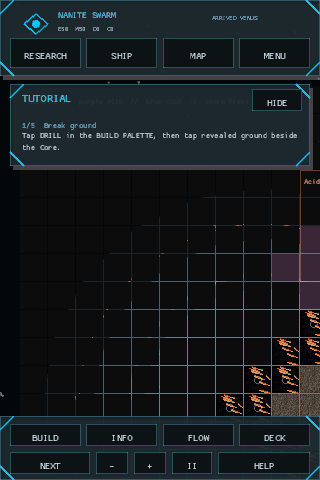
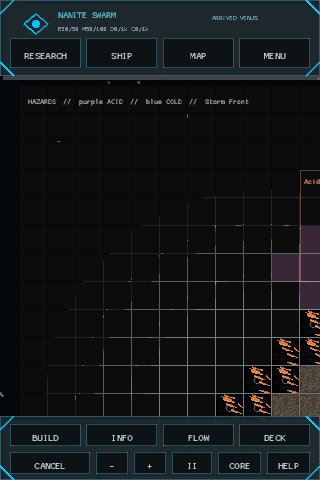
The new worlds refuse the opening lesson's impossible order (post-launch tutorial scope, GDD 4)
A newly colonized planet was created with the full opening tutorial active. That worked on Mars, but Venus and Saturn ban Wind Turbines, leaving a player who had successfully launched into a lesson that could never finish.

Campaign::colonize now marks the opening tutorial complete on every later world while preserving the arrival notice and the ordinary touch controls. A campaign regression test checks every non-starting planet, and the mobile arrival capture plus README document the intended handoff. Verified with 622 Rust tests, strict Clippy, formatting, source-size and diff checks, and a full Preview publish.

diff --git a/src/state/campaign.rs b/src/state/campaign.rs
@@ -581,6 +581,11 @@ impl Campaign {
         // the caller is how a freshly colonized world ends up simulating on
         // starting-tier research.
         planet.adopt_research(&self.research);
+        // The tutorial is the opening lesson, not a per-world checklist. A
+        // later world can ban one of its early building goals (Venus and
+        // Saturn both reject Wind Turbines), so restarting it here would trap
+        // a successful launch behind an impossible step.
+        planet.tutorial_done = true;
         self.planets[index] = Some(planet);
         true
     }

diff --git a/src/state/campaign/tests/tutorial.rs b/src/state/campaign/tests/tutorial.rs
@@ -1,0 +1,15 @@
+use super::*;
+
+#[test]
+fn a_new_world_does_not_restart_the_opening_tutorial() {
+    let mut campaign = campaign();
+    assert!(!campaign.current().tutorial_done);
+
+    for index in [0, 1, 3, 4] {
+        assert!(campaign.colonize(index), "world {index} should be new");
+        let world = campaign.planet(index).expect("new world should exist");
+        assert!(world.tutorial_done, "world {index} restarted the lesson");
+        assert!(world.tutorial_current().is_none());
+        assert!(world.tutorial_highlight().is_none());
+    }
+}

diff --git a/src/state/campaign/tests.rs b/src/state/campaign/tests.rs
@@ -4,6 +4,7 @@ use crate::engine::{BuildingType, GridPos};
 mod directives;
 mod launch;
 mod research;
+mod tutorial;
 
 fn campaign() -> Campaign {
     Campaign::new(GameConfig::default(), 42)

diff --git a/README.md b/README.md
@@ -11,6 +11,9 @@ The swarm is powerful, but every expansion changes the terrain, stresses the gri
   Efficient Drills and Power Efficiency prerequisites to the researched and
   built Mass Driver that opens the campaign's next world; research lessons
   pulse and center the next neural node on touch-sized views.
+- The opening lesson belongs to the starting world; newly colonized worlds
+  keep the arrival notice and visible controls without replaying steps that
+  may be forbidden by their own terrain and power rules.
 - Completing the opening lesson points to the visible SHIP control for the
   Seed Ship yard, then MAP for choosing the next world.
 - Connect structures through conduits and power networks.
